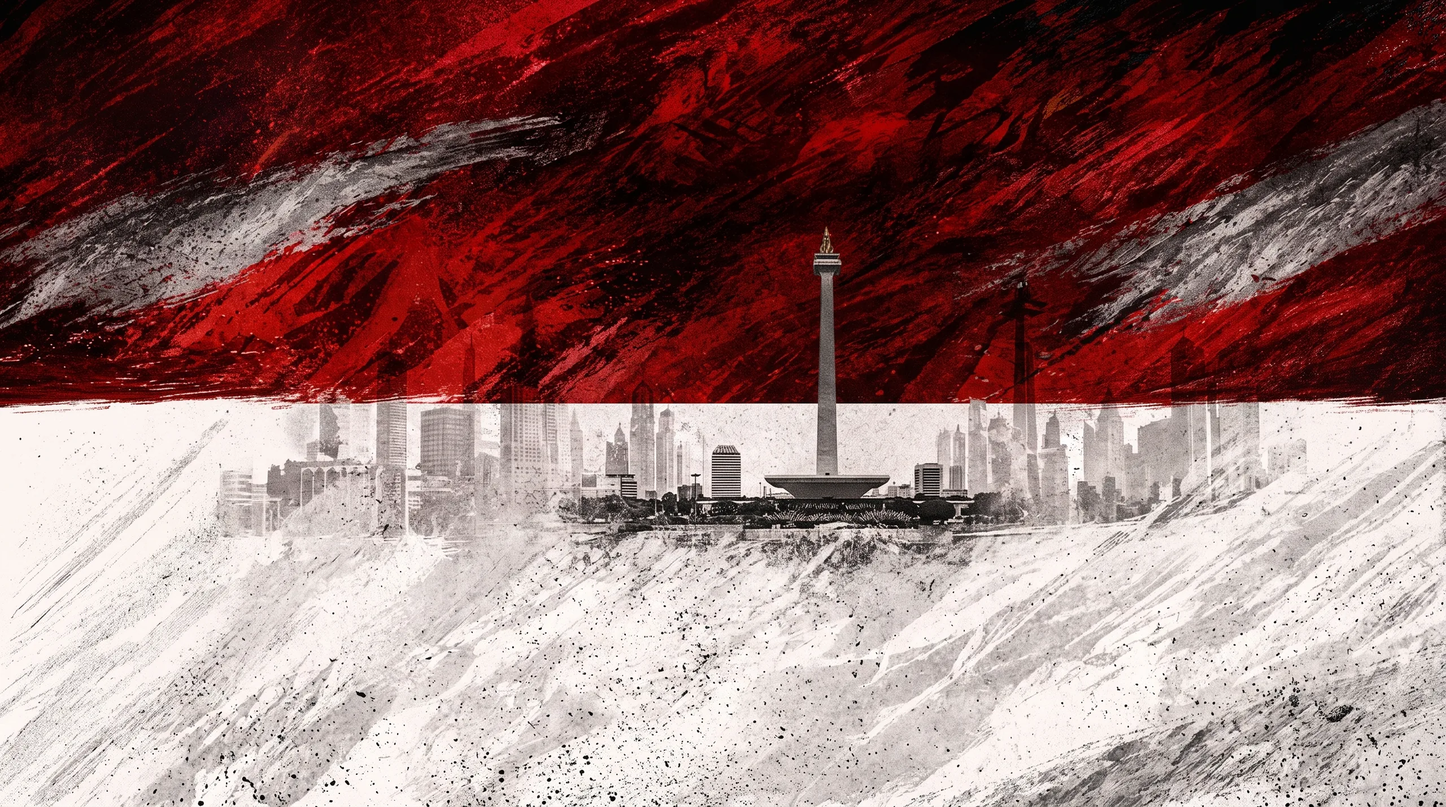
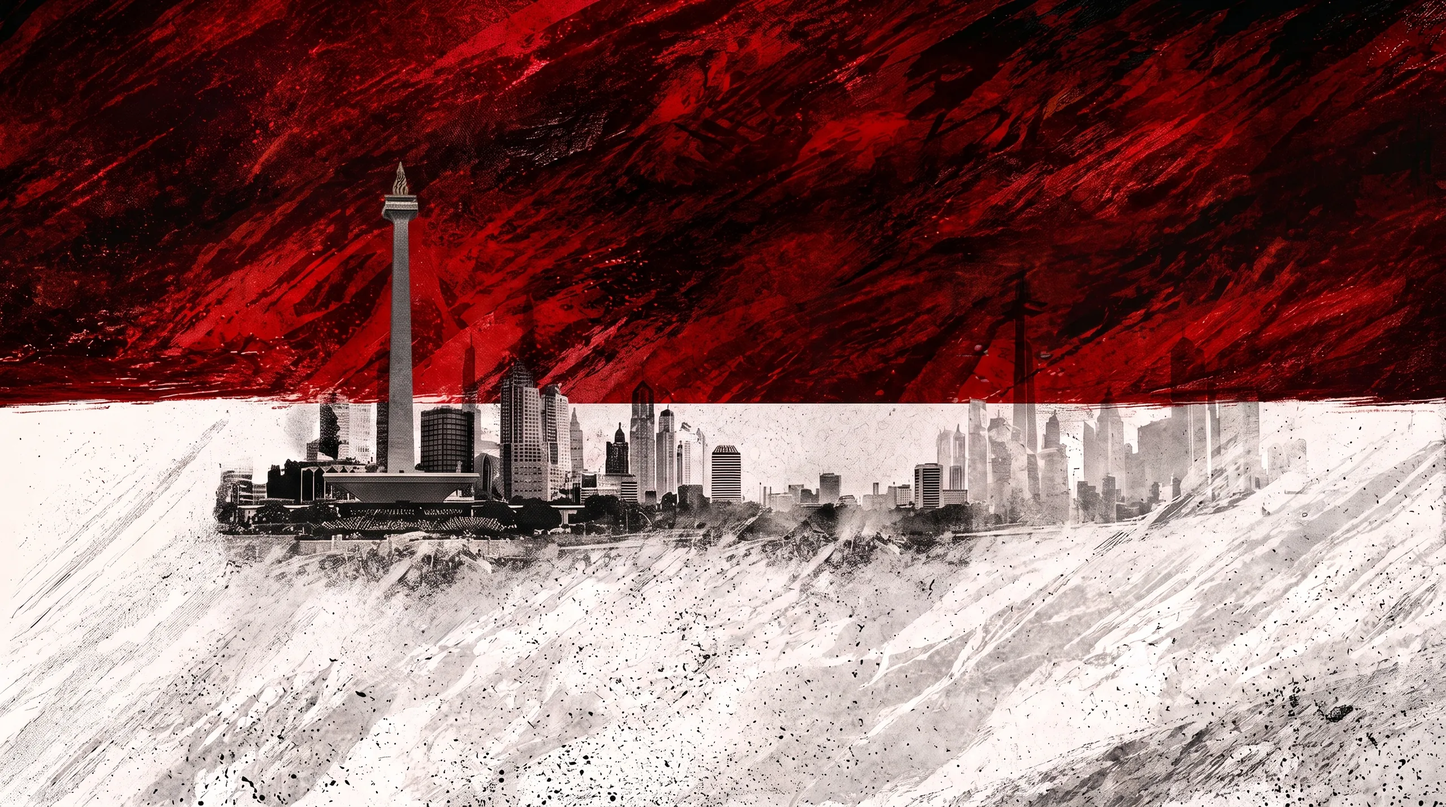
feat(hero): new Indonesia artwork, drop hover fill on leaders rows
Swapped the Indonesia slide for the tighter Jakarta crop and re-ran the
WebP conversion at the same settings as the other two slides
(2560px wide, q82, method 6): 4139 KB -> 744 KB.

The master was a .jfif sitting in public/, which deploys verbatim, so it
would have shipped to every visitor. Moved it to _source/hero-masters/
instead of deleting it. The converter now skips absent sources, so a
re-run after a partial cleanup is a no-op rather than a traceback.

The five "current leaders" rows lose `row-hover`. They sit directly under
the hero artwork and the wash flickered as the pointer crossed them
against the moving background. The rows stay links - only the fill is
gone.

diff --git a/src/components/home/index.tsx b/src/components/home/index.tsx
@@ -512,12 +512,15 @@ export function Hero() {
                 </div>
               )}
 
+              {/* No `row-hover` on these five: they sit directly under the hero artwork, and
+                    the wash flickered as the pointer crossed the rows against the
+                    moving background. They stay links - only the fill is gone. */}
               <div className="divide-y divide-[var(--border)] border-t border-[var(--border)]">
                 {siteData.standings.slice(1, 6).map((r) => (
                   <Link
                     key={r.team}
                     to="/standings"
-                    className="row-hover flex items-center gap-3 px-5 py-2.5"
+                    className="flex items-center gap-3 px-5 py-2.5"
                   >
                     <span className="numeric w-5 shrink-0 text-right text-xs text-[var(--text-faint)]">
                       {r.pos}

diff --git a/scripts/convert_hero_images.py b/scripts/convert_hero_images.py
@@ -3,19 +3,35 @@
 The three source files are 2752x1536 JPEGs at 3.9-4.6 MB each - about 13 MB for
 three hero slides, which the browser would download before the hero renders.
 WebP at a sensible width cuts that by roughly an order of magnitude.
+
+Sources live in the hero folder only while a conversion is pending and are
+deleted afterwards: everything under public/ is published as-is, so a leftover
+4 MB master would ship to every visitor.
+
+The Indonesia slide has been re-cut twice (`in hero.jpeg`, then
+`in-hero-new.jfif`). Point IND_SRC at whichever master is current.
 """
 import os
 from PIL import Image
 
 # Repo root, one level up from scripts/.
 SRC = os.path.join(os.path.dirname(os.path.dirname(os.path.abspath(__file__))), "public", "assets", "hero")
-PAIRS = [("sg hero.jpeg", "sg-hero.webp"), ("in hero.jpeg", "in-hero.webp"), ("my hero.jpeg", "my-hero.webp")]
+PAIRS = [
+    ("sg hero.jpeg", "sg-hero.webp"),
+    ("in-hero-new.jfif", "in-hero.webp"),
+    ("my hero.jpeg", "my-hero.webp"),
+]
 MAX_W = 2560
 QUALITY = 82
 
+# Skip any source that is no longer on disk, so re-running after a partial
+# cleanup is a no-op rather than a traceback.
 for src_name, dst_name in PAIRS:
     src = os.path.join(SRC, src_name)
     dst = os.path.join(SRC, dst_name)
+    if not os.path.exists(src):
+        print(f"{src_name}: source absent, skipped")
+        continue
     with Image.open(src) as im:
         before = im.size
         if im.mode != "RGB":
